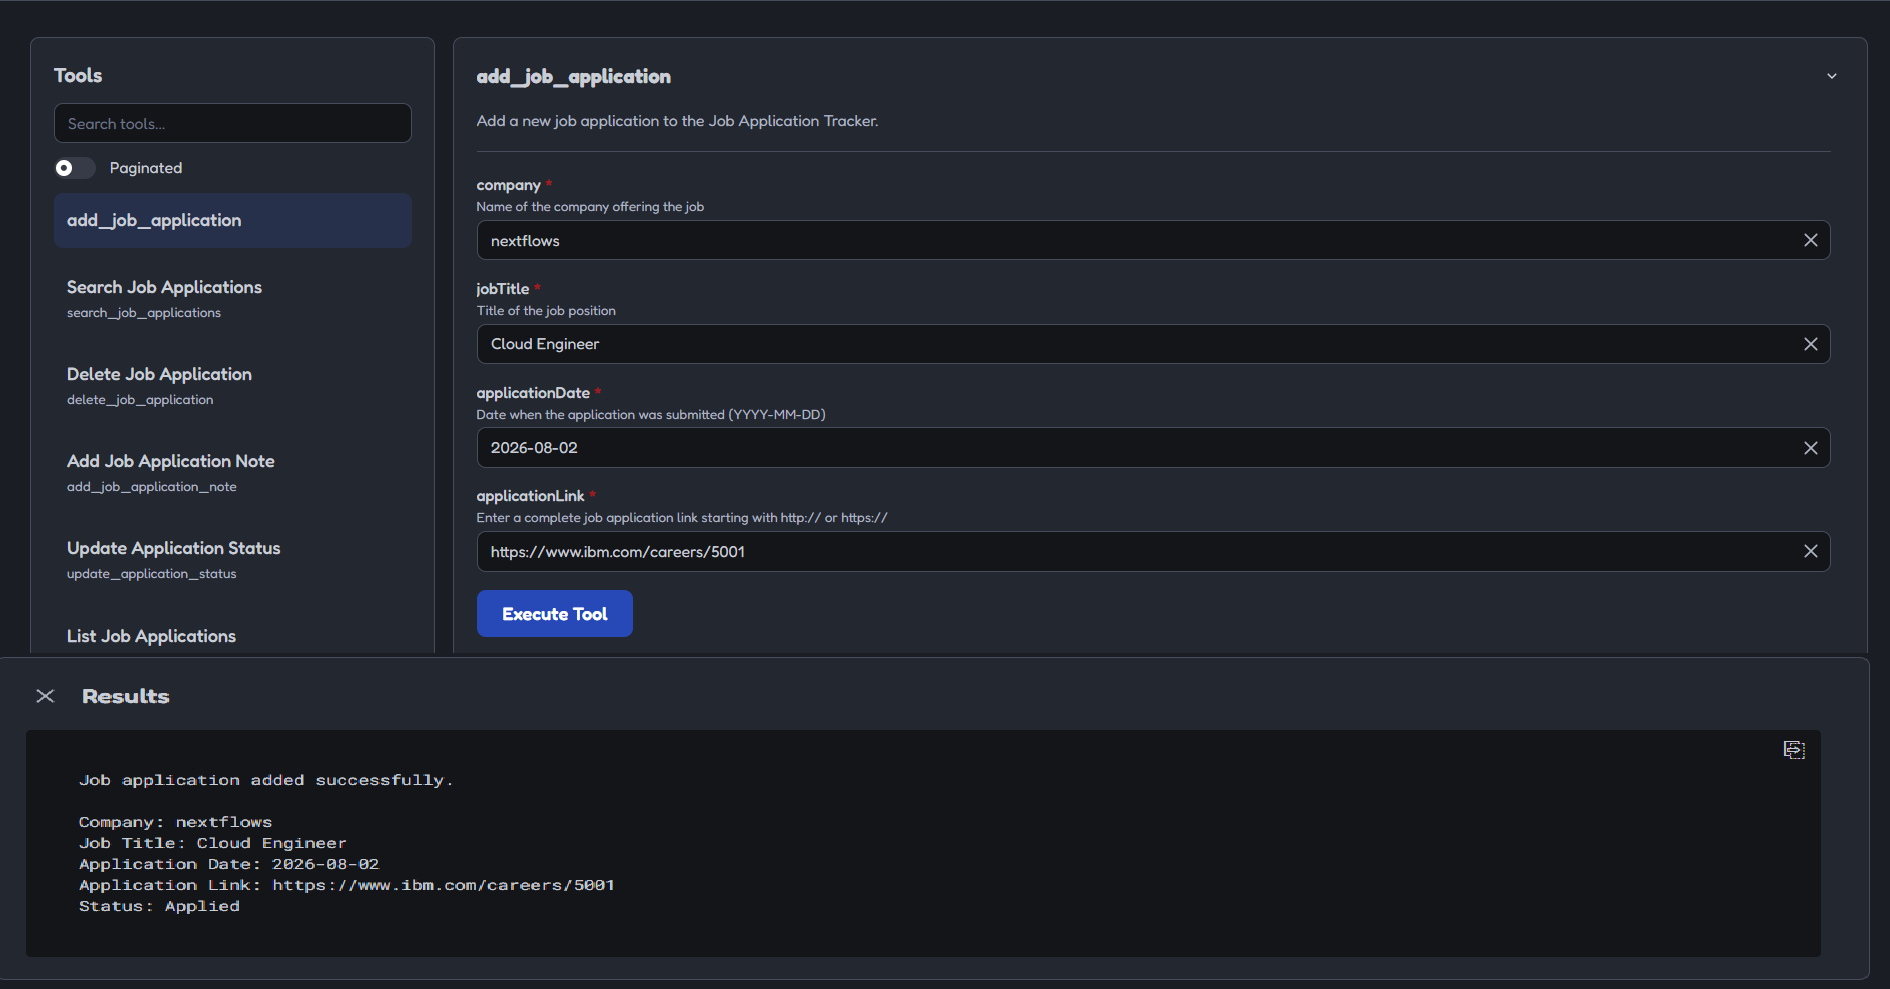
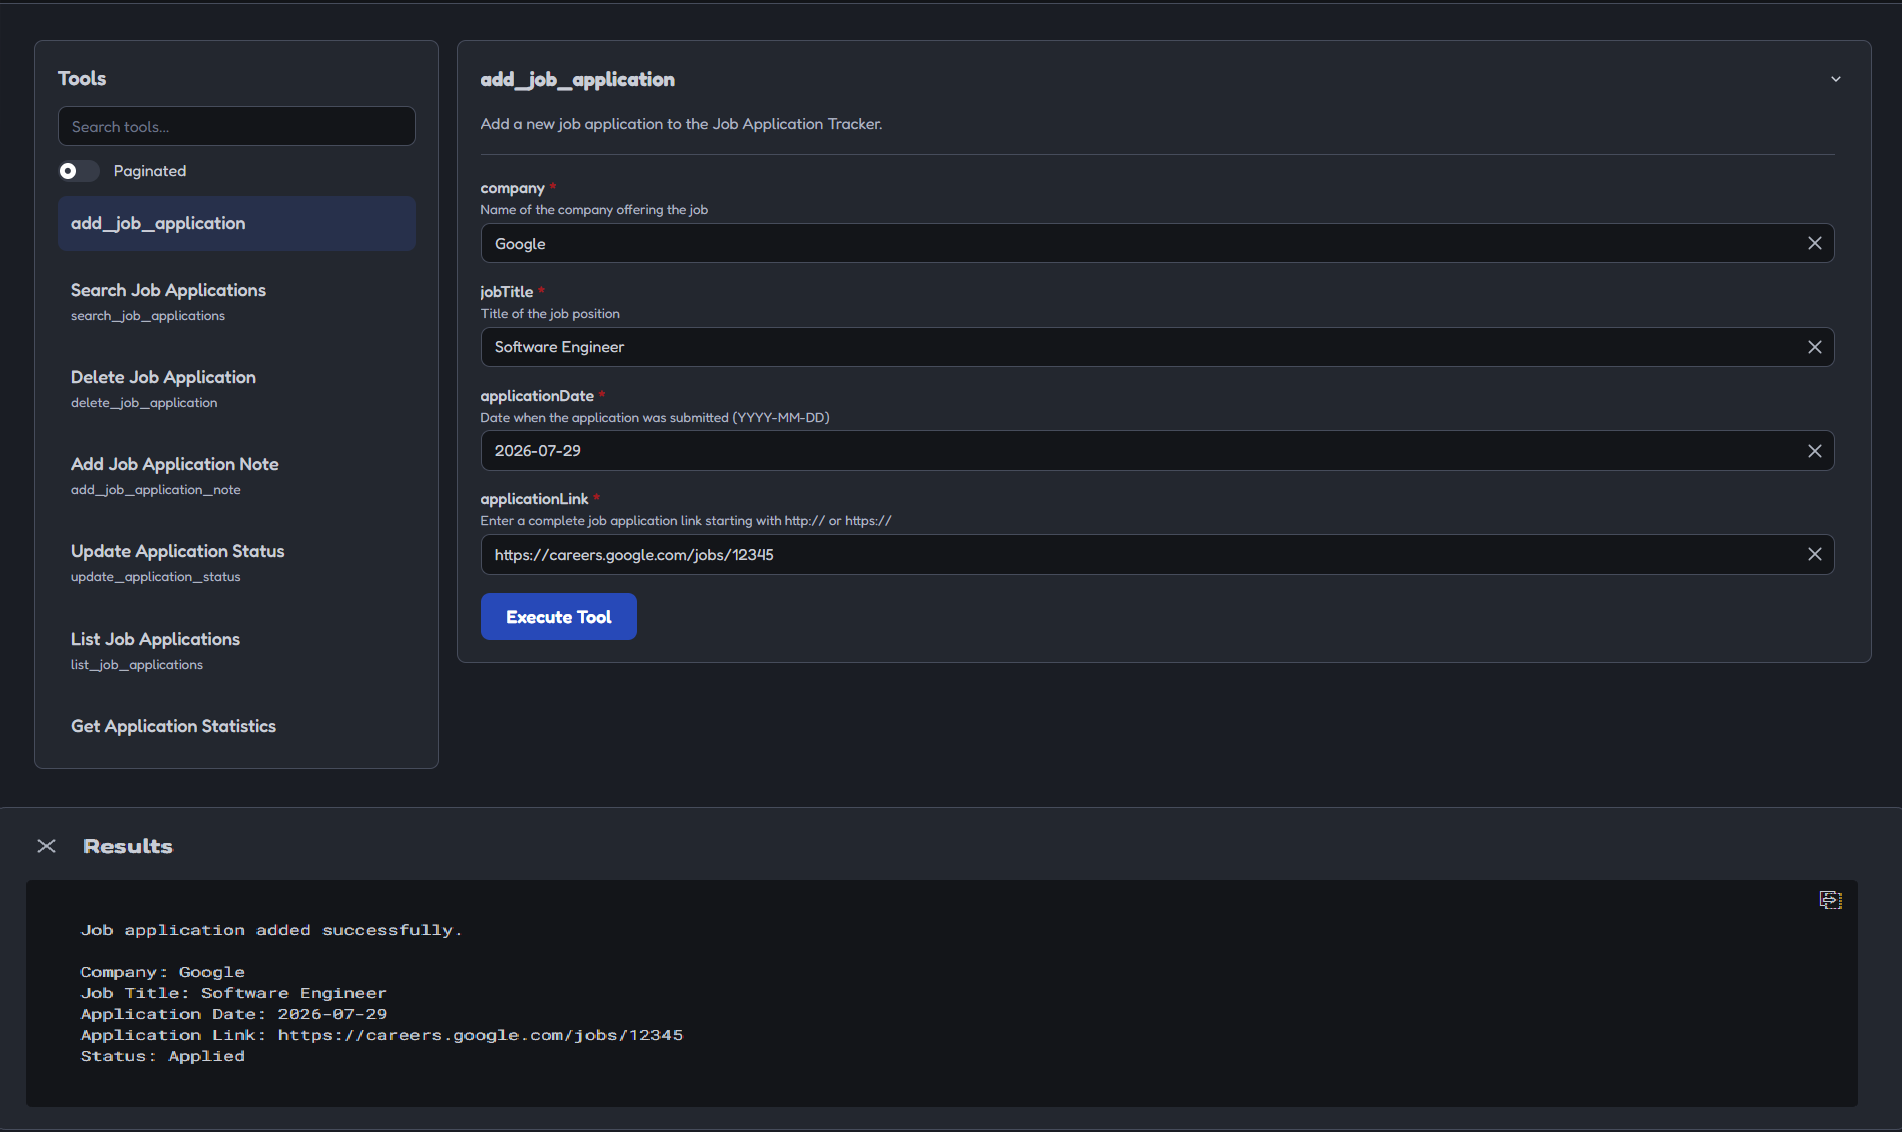
update the test plan 1 with the example file

diff --git a/docs/test-plan.md b/docs/test-plan.md
@@ -14,7 +14,7 @@ Before each test that modifies the data, reset the fixture to its original known
 
 | ID    | Tool                        | Setup                                                                                       | Input                                                                                           | Expected                                                                                                      | Result                                                                                                                                                                                           | Evidence                                                     |
 | ----- | --------------------------- | ------------------------------------------------------------------------------------------- | ----------------------------------------------------------------------------------------------- | ------------------------------------------------------------------------------------------------------------- | ------------------------------------------------------------------------------------------------------------------------------------------------------------------------------------------------ | ------------------------------------------------------------ |
-| TC-01 | `add_job_application`       | Reset `data/job-applications.json` to the known fixture state.                              | Use a valid happy-path input from the existing `examples/*.json` file.                          | The job application is added successfully and the data file is updated.                                       | **PASS — Job application added successfully. Company: nextflows, Job Title: Cloud Engineer, Application Date: 2026-08-02, Application Link: https://www.ibm.com/careers/5001, Status: Applied.** | [TC-01 screenshot](evidence/TC-01-add-happy.png)             |
+| TC-01 | `add_job_application`       | Reset `data/job-applications.json` to the known fixture state.                              | Use a valid happy-path input from the existing `examples/*.json` file.                          | The job application is added successfully and the data file is updated.                                       | **PASS — Job application added successfully Company: Google Job Title: Software Engineer   Application Date: 2026-07-29  Application Link: https://careers.google.com/jobs/12345  Status: Applied.** | [TC-01 screenshot](evidence/TC-01-add-happy.png)             |
 | TC-02 | `add_job_application`       | Reset `data/job-applications.json` to the known fixture state.                              | Submit an input with a required field missing (`applicationLink`).                              | A validation error is returned and no invalid application is added.                                           | **PASS — Validation error returned: "Application link is required." No invalid application was added.**                                                                                          | [TC-02 screenshot](evidence/TC-02-add-empty-data.png)        |
 | TC-03 | `delete_job_application`    | Reset `data/job-applications.json` with an existing application.                            | Company: `Google`; Job title: `Software Engineer`; Confirm: checked.                            | The matching job application is deleted successfully and the data file is updated.                            | **PASS — Job application deleted successfully.**                                                                                                                                                 | [TC-03 screenshot](evidence/TC-03-delete-happy.png)          |
 | TC-04 | `delete_job_application`    | Reset `data/job-applications.json` with existing applications.                              | Company: `nextflow`; Job title: `Ai engineer`; Confirm: checked.                                | An application-not-found error is returned and existing data remains unchanged.                               | **PASS — No job application was found for the specified company and job title.**                                                                                                                 | [TC-04 screenshot](evidence/TC-04-delete-not-found.png)      |
